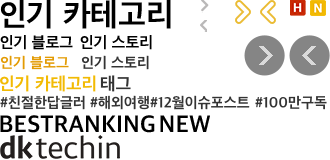
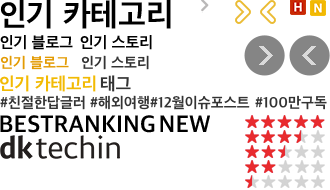
Add files via upload

diff --git a/Project/index_01.html b/Project/index_01.html
@@ -4,7 +4,7 @@
     <meta charset="UTF-8">
     <meta http-equiv="X-UA-Compatible" content="IE=edge">
     <meta name="viewport" content="width=device-width, initial-scale=1.0">
-    <title>김채원</title>
+    <title>디케이테크인_코딩테스트_퍼블리셔_김채원</title>
     <link rel="stylesheet" href="css/index_01.css">
     <link rel="stylesheet" href="https://cdnjs.cloudflare.com/ajax/libs/Swiper/4.5.1/css/swiper.min.css">
     <script src="https://cdnjs.cloudflare.com/ajax/libs/jquery/3.6.0/jquery.min.js"></script>
@@ -13,7 +13,6 @@
 </head>
 <body>
     <header class="doc_header">
-        <!-- 마우스 오버시 on 클래스 추가 -->
         <h1 class="dkt_logo"><a href="https://www.dktechin.com" class="ico_comm">디케이테크인</a></h1>
         <div class="gnb_button"><a href="javascript:;" class="ico_comm">햄버거 메뉴</a></div>
     </header>
@@ -238,53 +237,23 @@
                                 <ol class="con_list">
                                     <li>
                                         <a href="javascript:;"><p class="txt_tit"><span class="st05">1.</span> 한 달에 5개 이상 포스팅할 정도면.. </p></a>
-                                        <div class="ico_star">
-                                            <span class="img_area"><img src="images/ico_star_full.png" alt="1점 별 아이콘"></span>
-                                            <span class="img_area"><img src="images/ico_star_full.png" alt="1점 별 아이콘"></span>
-                                            <span class="img_area"><img src="images/ico_star_full.png" alt="1점 별 아이콘"></span>
-                                            <span class="img_area"><img src="images/ico_star_full.png" alt="1점 별 아이콘"></span>
-                                            <span class="img_area"><img src="images/ico_star_full.png" alt="1점 별 아이콘"></span>
-                                        </div>
+                                        <div class="ico_comm ico_star st06"><span class="screen_out">5점</span></div>
                                     </li>
                                     <li>
                                         <a href="javascript:;"><p class="txt_tit"><span class="st05">2.</span> 한 달에 5개 이상 포스팅할 정도면.. </p></a>
-                                        <div class="ico_star">
-                                            <span class="img_area"><img src="images/ico_star_full.png" alt="1점 별 아이콘"></span>
-                                            <span class="img_area"><img src="images/ico_star_full.png" alt="1점 별 아이콘"></span>
-                                            <span class="img_area"><img src="images/ico_star_full.png" alt="1점 별 아이콘"></span>
-                                            <span class="img_area"><img src="images/ico_star_half.png" alt="0.5점 별 아이콘"></span>
-                                            <span class="img_area"><img src="images/ico_star_empty.png" alt="0점 별 아이콘"></span>
-                                        </div>
+                                        <div class="ico_comm ico_star st07"><span class="screen_out">3.5점</span></div>
                                     </li>
                                     <li>
                                         <a href="javascript:;"><p class="txt_tit"><span class="st05">3.</span> 한 달에 5개 이상 포스팅할 정도면.. </p></a>
-                                        <div class="ico_star">
-                                            <span class="img_area"><img src="images/ico_star_full.png" alt="1점 별 아이콘"></span>
-                                            <span class="img_area"><img src="images/ico_star_full.png" alt="1점 별 아이콘"></span>
-                                            <span class="img_area"><img src="images/ico_star_half.png" alt="0.5점 별 아이콘"></span>
-                                            <span class="img_area"><img src="images/ico_star_empty.png" alt="0점 별 아이콘"></span>
-                                            <span class="img_area"><img src="images/ico_star_empty.png" alt="0점 별 아이콘"></span>
-                                        </div>
+                                        <div class="ico_comm ico_star st08"><span class="screen_out">2.5점</span></div>
                                     </li>
                                     <li>
                                         <a href="javascript:;"><p class="txt_tit"><span class="st05">4.</span> 한 달에 5개 이상 포스팅할 정도면.. </p></a>
-                                        <div class="ico_star">
-                                            <span class="img_area"><img src="images/ico_star_full.png" alt="1점 별 아이콘"></span>
-                                            <span class="img_area"><img src="images/ico_star_full.png" alt="1점 별 아이콘"></span>
-                                            <span class="img_area"><img src="images/ico_star_empty.png" alt="0점 별 아이콘"></span>
-                                            <span class="img_area"><img src="images/ico_star_empty.png" alt="0점 별 아이콘"></span>
-                                            <span class="img_area"><img src="images/ico_star_empty.png" alt="0점 별 아이콘"></span>
-                                        </div>
+                                        <div class="ico_comm ico_star st09"><span class="screen_out">2점</span></div>
                                     </li>
                                     <li>
                                         <a href="javascript:;"><p class="txt_tit"><span class="st05">5.</span> 한 달에 5개 이상 포스팅할 정도면.. </p></a>
-                                        <div class="ico_star">
-                                            <span class="img_area"><img src="images/ico_star_half.png" alt="0.5점 별 아이콘"></span>
-                                            <span class="img_area"><img src="images/ico_star_empty.png" alt="0점 별 아이콘"></span>
-                                            <span class="img_area"><img src="images/ico_star_empty.png" alt="0점 별 아이콘"></span>
-                                            <span class="img_area"><img src="images/ico_star_empty.png" alt="0점 별 아이콘"></span>
-                                            <span class="img_area"><img src="images/ico_star_empty.png" alt="0점 별 아이콘"></span>
-                                        </div>
+                                        <div class="ico_comm ico_star st10"><span class="screen_out">1점</span></div>
                                     </li>
                                 </ol>
                             </article>

diff --git a/Project/css/index_01.css b/Project/css/index_01.css
@@ -75,11 +75,10 @@ button{background: inherit; border: none; box-shadow: none; border-radius: 0;}
 .con_board .con_list .st02 {background-color: #9da3d7;}
 .con_board .con_list .st03 {background-color: #ccc76c;}
 .con_board .con_list .st04 {background-color: #a37a7b;}
-.con_best .con_tit {background-position: 0 -115px; width: 53px; height: 18px;}
+.con_best .con_tit {display: block; width: 53px; height: 18px; background-position: 0 -115px; }
 .con_best .con_list::after {content:''; display: block; clear:both;}
 .con_best::after {content:''; display: block; clear:both;}
 .con_best .img_thumb {position: relative; float: left; width: 50%; box-sizing: border-box;} 
-/* .con_best .img_thumb::after {content: ''; display: block; clear: both;} */
 .con_best .img_thumb img {vertical-align: middle;} 
 .con_best .img_best {width: 100%;}
 .con_best .img_best .txt_tit {padding: 30px 15px; line-height: 28px; font-size: 2rem;}
@@ -90,8 +89,12 @@ button{background: inherit; border: none; box-shadow: none; border-radius: 0;}
 .con_ranking .con_list li {padding: 10px; text-align: left; font-weight: 600; font-size:1.2rem; border-bottom: 1px solid #eee;}
 .con_ranking .con_list a {display: inline-block;}
 .con_ranking .txt_tit {display: inline-block; overflow: hidden; text-overflow: ellipsis; white-space: nowrap;}
-.con_ranking .ico_star {display: inline-block; float: right;}
-.con_ranking .ico_star .img_area {width: 11px; height: 11px;}
+.con_ranking .ico_star {float: right; width: 80px; height: 13px;}
+.con_ranking .ico_star.st06 {background-position: -245px -115px;}
+.con_ranking .ico_star.st07 {background-position: -245px -130px;}
+.con_ranking .ico_star.st08 {background-position: -245px -145px;}
+.con_ranking .ico_star.st09 {background-position: -245px -160px;}
+.con_ranking .ico_star.st10 {background-position: -245px -175px;}
 .con_new {padding-left: 5px;}
 .con_new .con_tit {background-position: -160px -115px; width: 50px; height: 20px}
 .con_new .con_list {margin-left: 5px; padding: 12px 11px;}
@@ -121,6 +124,8 @@ button{background: inherit; border: none; box-shadow: none; border-radius: 0;}
 .doc_footer {padding: 18px 0; text-align:center; letter-spacing: 0; font-size: 1.3rem; color:#777; background-color: #f1f1f1;}
 
 
+
+
 @media (max-width: 1023px) {
     .con_board .img_thumb {width: 180px;}
     .con_board .txt_info {min-height: 132px; padding-left: 190px;}
@@ -146,7 +151,7 @@ button{background: inherit; border: none; box-shadow: none; border-radius: 0;}
 
     /* Main */
     .doc-main {padding: 20px 0 0 0;}
-    .bg_shadow {position: fixed; top: 0; left:0; width: 100%; height: 100%; opacity: 0.5; background-color: rgb(0, 0, 0); z-index: 1;}
+    .bg_shadow {position: fixed; top: 0; left:0; width: 100%; height: 100%; opacity: 0.5; background-color: rgb(0, 0, 0); z-index: 10;}
     /* Main - sec_lnb */
     .sec_lnb {position: fixed; height: 100%; background-color: #fff; border-right: none;}
     .sec_lnb.active + .sec_con {padding: 20px 0 0;}
@@ -168,7 +173,7 @@ button{background: inherit; border: none; box-shadow: none; border-radius: 0;}
     .tab_menu .tabCon {padding-right: 0;}
     .tab_menu .tab_list .btn_con a {width: 63.5px; height:13px;}
     .tab_menu .tab_story > .box_wrap {display: flex; flex-direction: column-reverse; margin-top: 0px;}
-    .tab_menu .tab_story .con_list {margin-top: 7px;}
+    .tab_menu .tab_story .con_list {margin: 7px 0 0;}
     .tab_menu .tab_02 {background-position: -64.5px -35px;}
     .tab_menu .con_list {margin-top: 7px;}
     .con_board {margin: 0;}
@@ -193,6 +198,12 @@ button{background: inherit; border: none; box-shadow: none; border-radius: 0;}
     .con_ranking .con_tit {width: 52px; height: 10px; background-position: -63px -50px;}
     .con_ranking .con_list li {font-size: 0.9rem;}
     .con_ranking .st05 {color: #ffcb54;}
+    .con_ranking .ico_star {width: 63.5px; height: 11.5px;}
+    .con_ranking .ico_star.st06 {background-position: -200px 0;}
+    .con_ranking .ico_star.st07 {background-position: -200px -12.5px;}
+    .con_ranking .ico_star.st08 {background-position: -200px -25px;}
+    .con_ranking .ico_star.st09 {background-position: -200px -37.5px;}
+    .con_ranking .ico_star.st10 {background-position: -200px -50px;}
     .con_new {padding-left: 0;}
     .con_new .con_tit {width: 30px; height: 10px; background-position: -32.5px -50px;}
     .con_new .txt_hashTag {font-size: 1rem;}    
@@ -220,7 +231,4 @@ button{background: inherit; border: none; box-shadow: none; border-radius: 0;}
 
     /* Footer */
     .doc_footer {padding: 14px 0; font-size: 1.1rem;}
-
-
-    .con_new .con_list {margin-left: 0;}
 }
